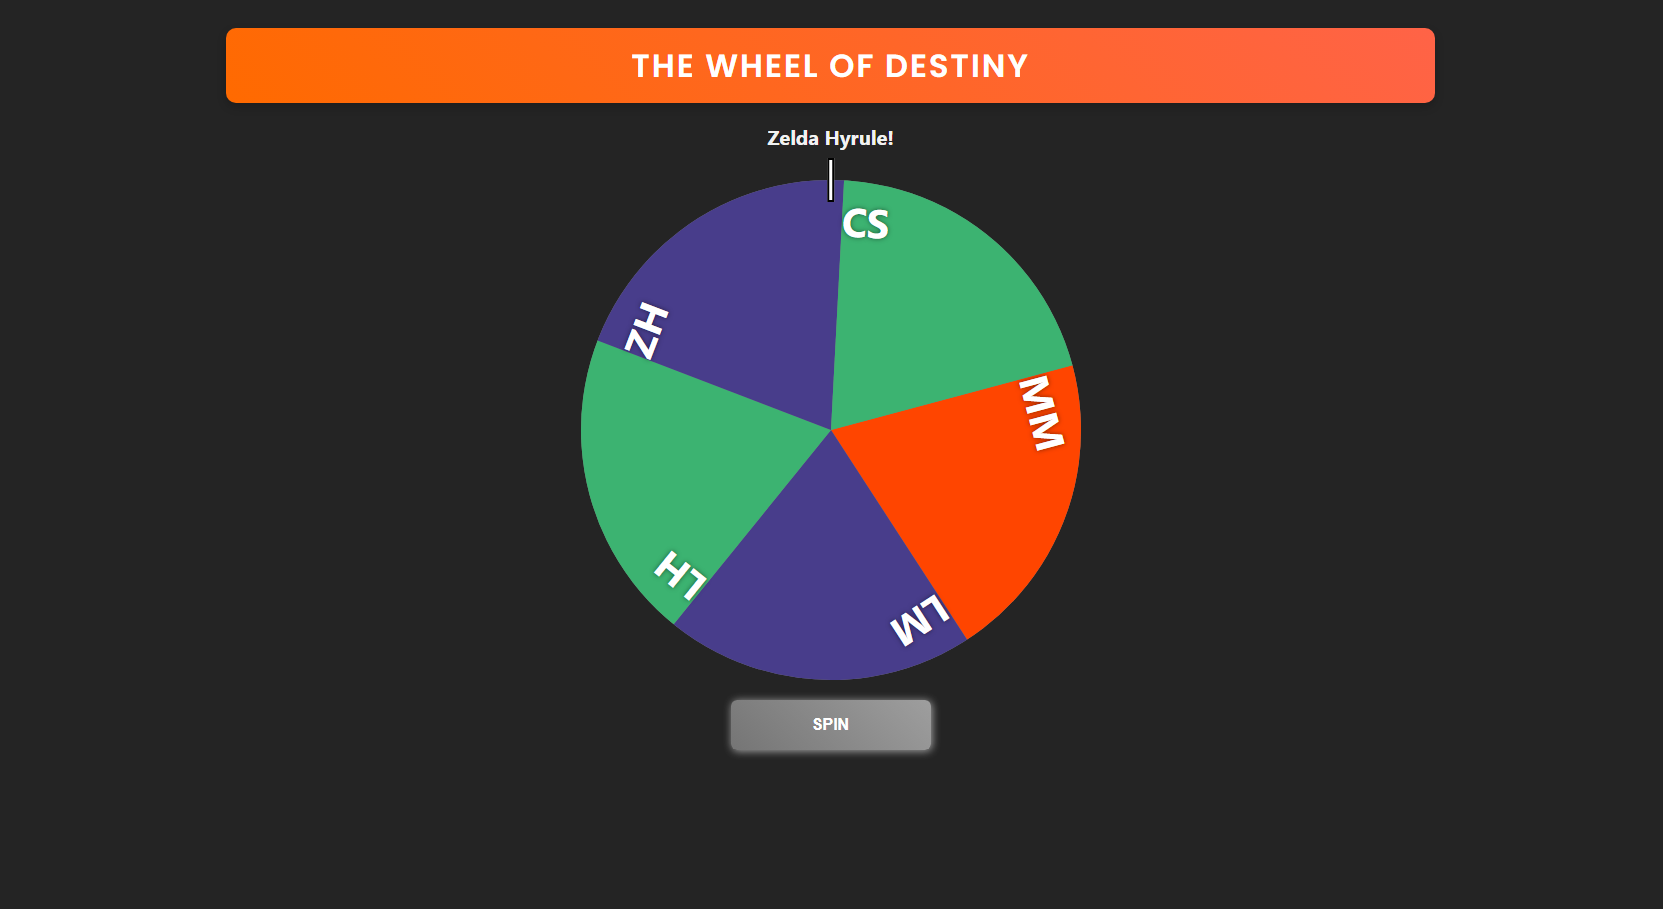
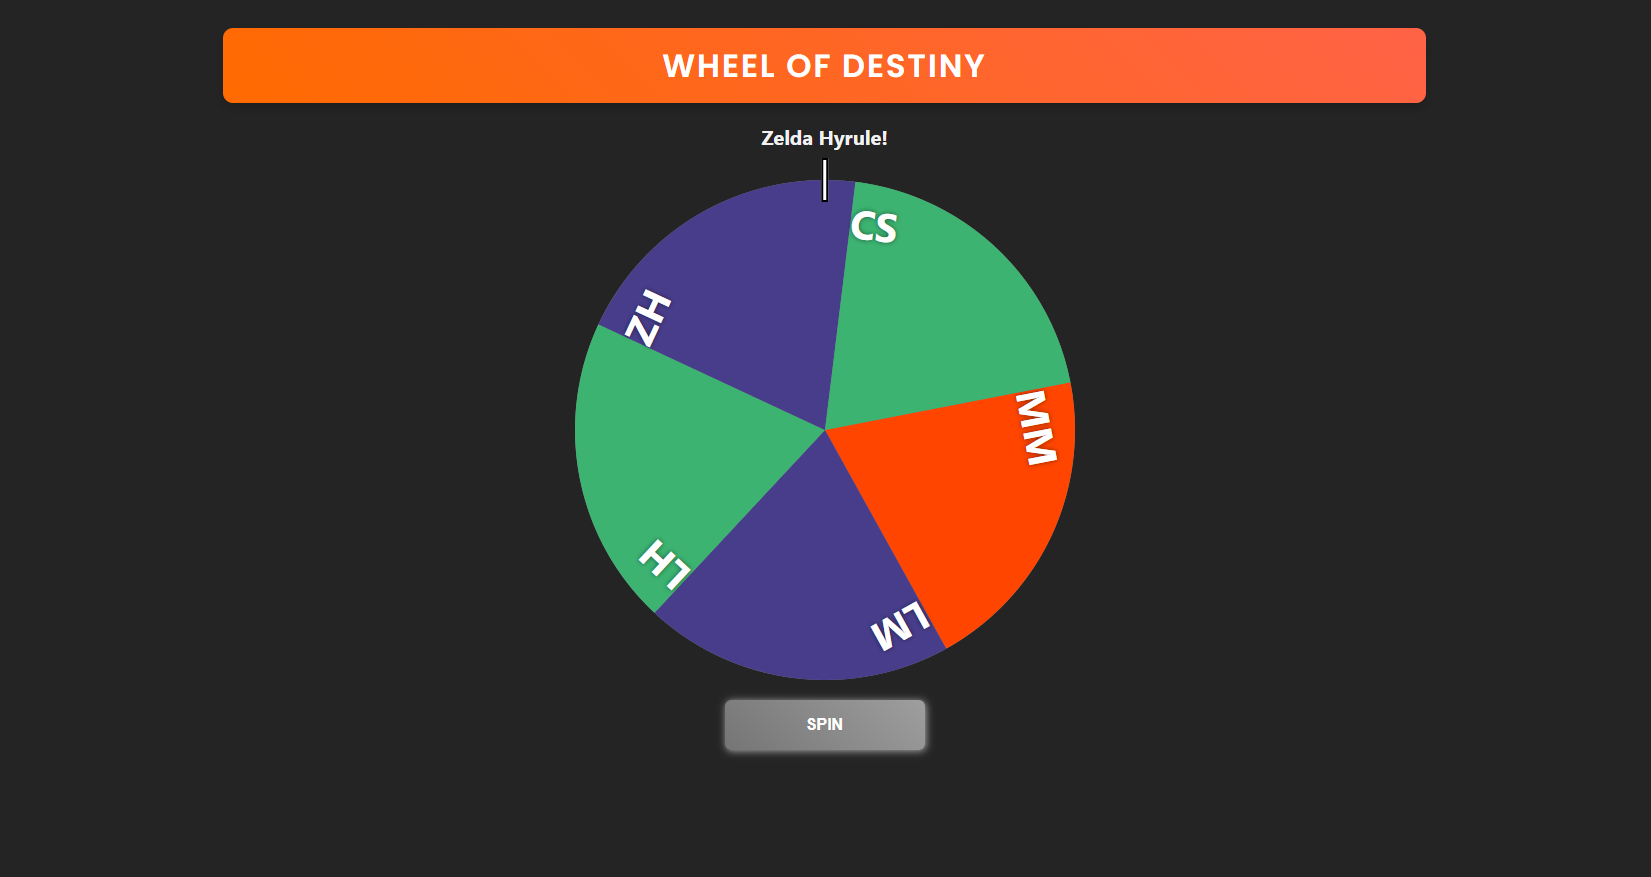
updated README

diff --git a/src/components/Header/index.jsx b/src/components/Header/index.jsx
@@ -3,7 +3,7 @@ import "./style.css";
 const Header = () => {
   return (
     <header>
-      <h1>The Wheel of Destiny</h1>
+      <h1>Wheel of Destiny</h1>
     </header>
   );
 };

diff --git a/README.md b/README.md
@@ -7,7 +7,7 @@
 * [Questions](#questions)
 
 ## Description
-An applicationt that enables users to randomly select from a list provided. Whose turn is it next? Find out with the Wheel of Destiny.
+An application that enables users to randomly select from a provided list. Whose turn is it next? Find out with the Wheel of Destiny.
 ![FirstThumbnail](./public/WheelOfDestinyThumbnail.PNG)
 ![SecondThumbnail](./public/WheelOfDestinyThumbnail2.PNG)
 
